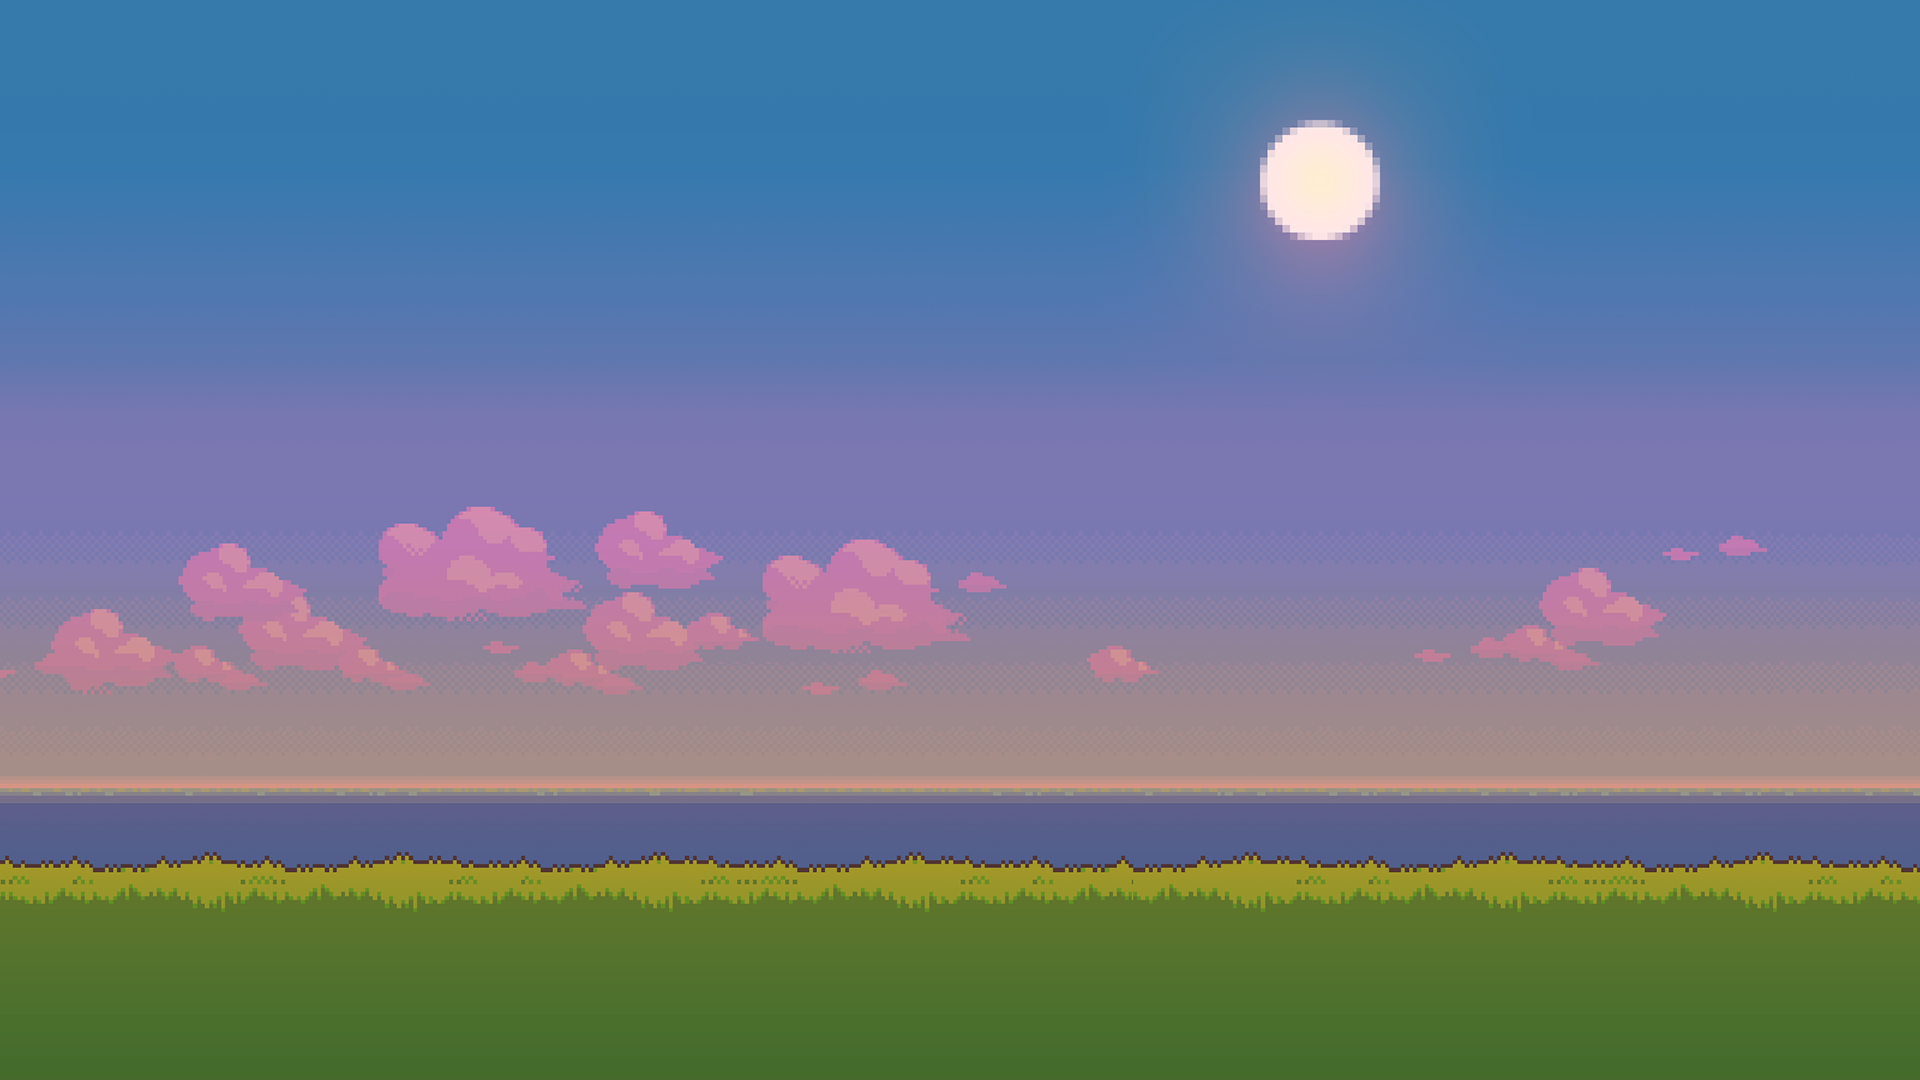
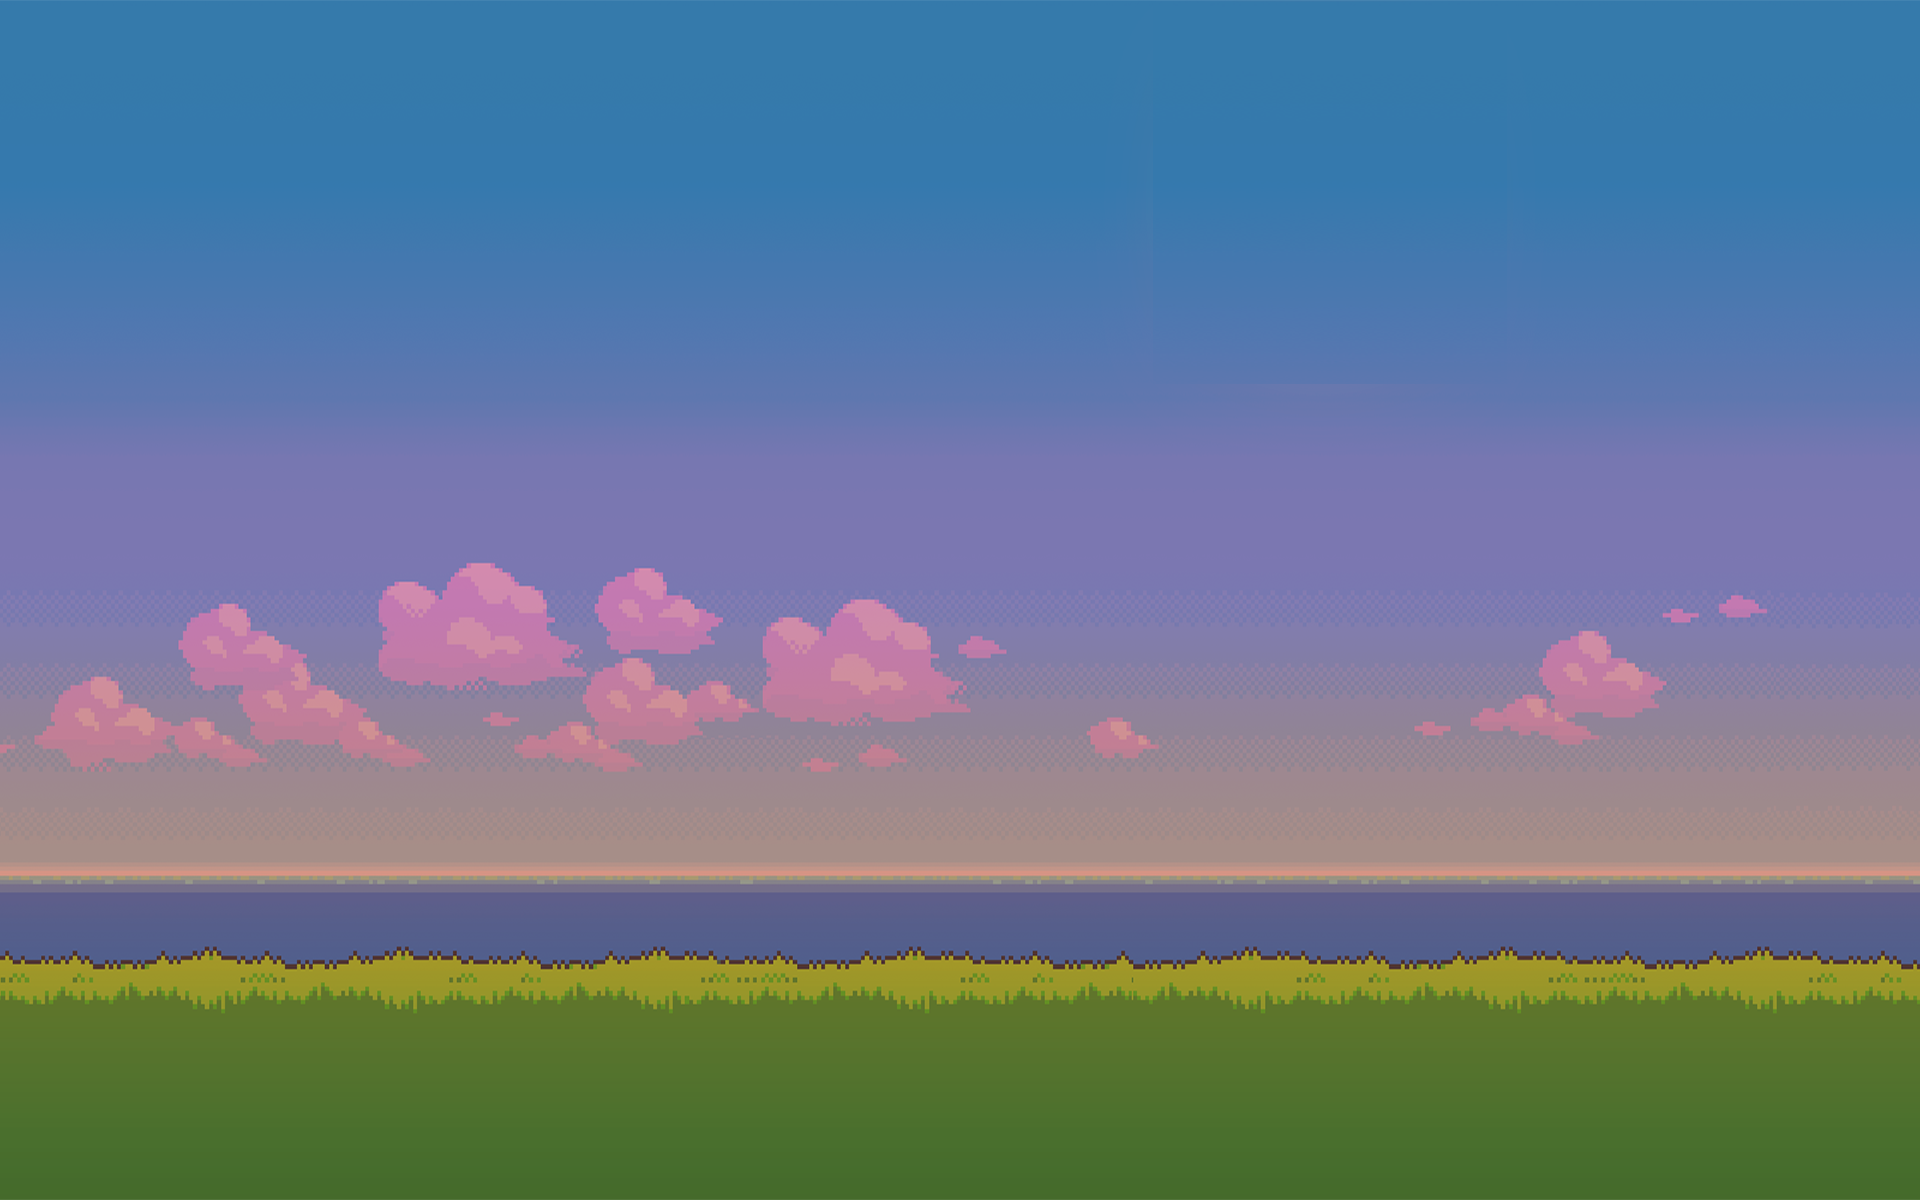
fixed some responsiveness issues and other css related fixes, changed the background for twilight setting

Changed region(s): [[0.625, 0.0611, 0.75, 0.3056]]

diff --git a/src/App.css b/src/App.css
@@ -69,6 +69,12 @@
 
 }
 
+.detailtitle img{
+  height: 50%;
+  width: 50%;
+
+}
+
 
 .detailbg{
   background-color: rgba(224, 224, 222,0.8);
@@ -79,6 +85,8 @@
 
   padding-bottom: 20%;
 }
+
+
 
 .tabs{
   display: flex;
@@ -237,6 +245,7 @@ background-color: #99d8a0;
   align-content: left;
   margin-left: 18%;
   margin-right: 20%;
+  margin-top: -1%;
 
 
 }
@@ -532,6 +541,12 @@ height:35%;
 
 }
 
+.listtitle img{
+  height: 50%;
+  width: 50%;
+
+}
+
 .listbg{
   margin-left: 10%;
   margin-right: 10%;
@@ -572,7 +587,7 @@ height:35%;
 .item4{
   flex-basis: 25%;
   margin-bottom: 2%;
-  background-color: #282c34;
+  background-color: #2a2e34;
   border-style: solid;
   border-width: 1x 1px 1px 1px;
   border-color: white;
@@ -657,9 +672,11 @@ height:35%;
 
 .pokename h2{
   color: #ffcd00;
+  text-shadow: -1px -1px 0 #356abc, 1px -1px 0 #356abc, -1px 1px #356abc, 1px 1px 0 #356abc;
 }
 .pokename h3{
   color: #ffcd00;
+  text-shadow: -5px -5px 0 #356abc 5px -5px 0 #356abc, -5px 5px #356abc, 5px 5px 0 #356abc;
 }
 
 
@@ -751,6 +768,12 @@ margin-left: 35%;
   margin-bottom: 5%;
 }
 
+.pctitle img{
+  height: 22%;
+  width: 22%;
+
+}
+
 
 .boxcardparent{
 
@@ -819,6 +842,7 @@ margin-left: 35%;
   margin-left: 35.5%;
   margin-bottom: 2%;
 }
+
 
 .boxtop h3{
   color: black;

diff --git a/src/components/PokemonList.js b/src/components/PokemonList.js
@@ -16,7 +16,6 @@ const PokemonList = (props)=> {
     const imgid = useContext(bgContext)
     const [pokes, setpokes] = useState([])
     const [nav, setnav] = useState({nextURL: '', prevURL: ''})
-    const [page, setpage] = useState(0)
     const [fromtill, setfromtill] = useState({from: 0 , till: 0})
     const navi = useNavigate();
     const pagectx = useContext(pageContext)
